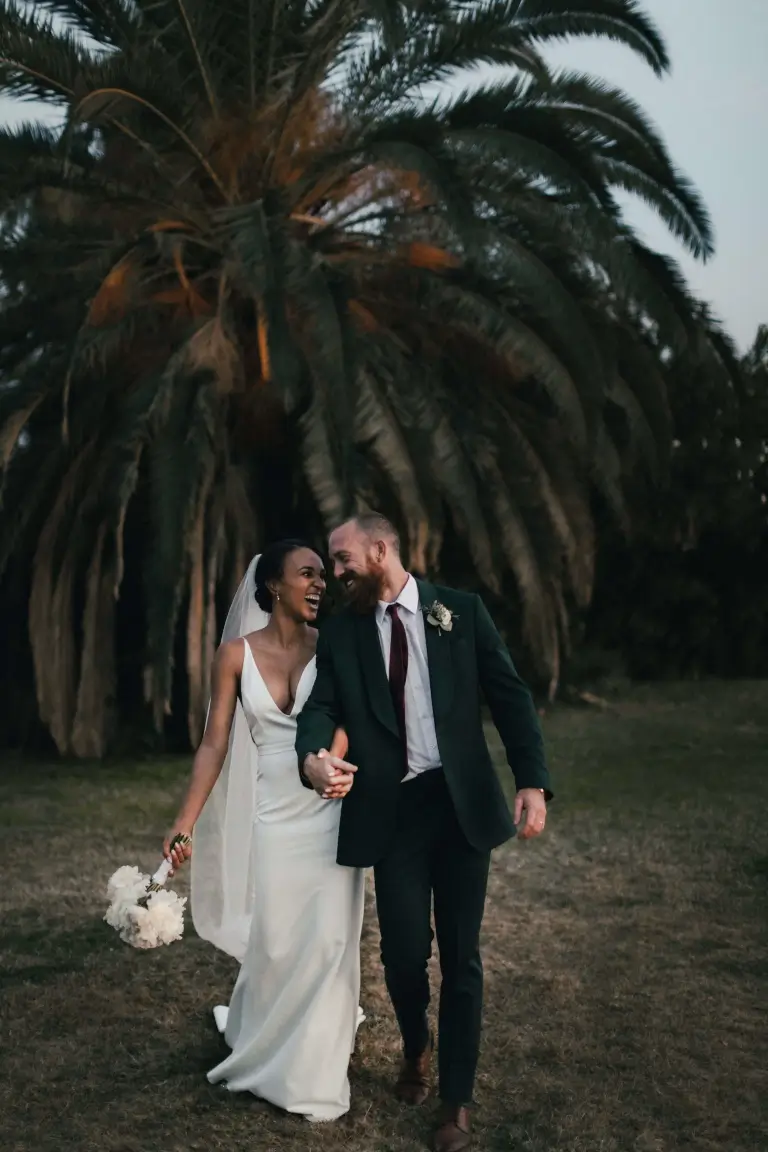
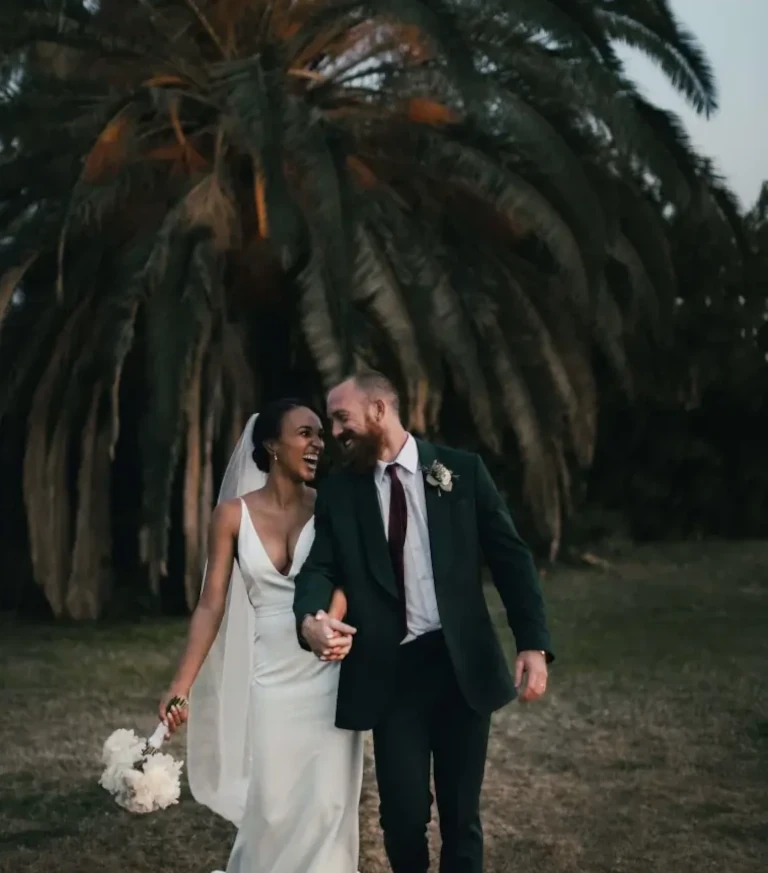
improve website performance (cropping pictures for mobiles), lazy loader

diff --git a/index.html b/index.html
@@ -4,9 +4,9 @@
 	<meta name="viewport" content="width=device-width, initial-scale=1.0">
 	<link rel="stylesheet" href="./assets/bootstrap/bootstrap.css">
 	<link rel="stylesheet" href="./assets/style.css">
-	<link rel="preconnect" href="https://fonts.googleapis.com">
-	<link rel="preconnect" href="https://fonts.gstatic.com" crossorigin>
-	<link href="https://fonts.googleapis.com/css2?family=Inter&family=Spectral:ital,wght@0,400;1,300;1,400;1,800&display=swap" rel="stylesheet">
+	<!-- <link rel="preconnect" href="https://fonts.googleapis.com"> -->
+	<!-- <link rel="preconnect" href="https://fonts.gstatic.com" crossorigin> -->
+	<link href="https://fonts.googleapis.com/css2?family=Inter&family=Spectral:ital,wght@0,400;1,300;1,400;1,800&display=swap" rel="stylesheet" >
 	<meta charset="UTF-8">
 	<script src="./assets/bootstrap/bootstrap.bundle.js" defer></script>
 	<script src="https://code.jquery.com/jquery-3.4.1.min.js" defer integrity="sha256-CSXorXvZcTkaix6Yvo6HppcZGetbYMGWSFlBw8HfCJo=" crossorigin="anonymous"></script>
@@ -41,13 +41,13 @@
 		</div>
 		<div class="carousel-inner">
 			<div class="carousel-item active">
-				<img srcset="./assets/images/slider/small/city_businessman_ryoji_iwata_small.webp 320w , ./assets/images/slider/small/city_businessman_ryoji_iwata_small.webp 768w , ./assets/images/slider/city_businessman_ryoji_iwata.webp 1024w" sizes="100vw" class="d-block w-100" src="./assets/images/slider/city_businessman_ryoji_iwata.webp" alt="businessman marche en ville">
+				<img srcset="./assets/images/slider/small/city_businessman_ryoji_iwata_small.webp 320w, ./assets/images/slider/small/city_businessman_ryoji_iwata_small.webp 768w, ./assets/images/slider/city_businessman_ryoji_iwata.webp 1024w" sizes="100vw" class="d-block w-100" src="./assets/images/slider/city_businessman_ryoji_iwata.webp" alt="homme d'affaires qui traverse un passage piéton">
 			</div>
 			<div class="carousel-item">
-				<img srcset="./assets/images/slider/small/concert_nicholas_green_small.webp 320w , ./assets/images/slider/small/concert_nicholas_green_small.webp 768w , ./assets/images/slider/concert_nicholas_green.webp 1024w" sizes="100vw" src="./assets/images/slider/concert_nicholas_green.webp" class="d-block w-100" alt="foule souriante dans un concert">
+				<img loading="lazy" srcset="./assets/images/slider/small/concert_nicholas_green_small.webp 320w, ./assets/images/slider/small/concert_nicholas_green_small.webp 768w, ./assets/images/slider/concert_nicholas_green.webp 1024w" sizes="100vw" src="./assets/images/slider/concert_nicholas_green.webp" class="d-block w-100" alt="foule souriante dans un concert">
 			</div>
 			<div class="carousel-item">
-				<img srcset="./assets/images/slider/small/wedding_kiss_edward_cisneros_small.webp 320w , ./assets/images/slider/small/wedding_kiss_edward_cisneros_small.webp 768w , ./assets/images/slider/wedding_kiss_edward_cisneros.webp 1024w" sizes="100vw" src="./assets/images/slider/wedding_kiss_edward_cisneros.webp" class="d-block w-100" alt="couple homme-femme mariés s'embrassent">
+				<img loading="lazy" srcset="./assets/images/slider/small/wedding_kiss_edward_cisneros_small.webp 320w, ./assets/images/slider/small/wedding_kiss_edward_cisneros_small.webp 768w, ./assets/images/slider/wedding_kiss_edward_cisneros.webp 1024w" sizes="100vw" src="./assets/images/slider/wedding_kiss_edward_cisneros.webp" class="d-block w-100" alt="couple homme-femme mariés qui s'embrassent">
 			</div>
 		</div>
 		<button class="carousel-control-prev" type="button" data-bs-target="#carouselExampleIndicators" data-bs-slide="prev">
@@ -62,7 +62,7 @@
 </div>
 <div id="about">
 	<div class="picture left">
-		<img srcset="./assets/images/nina_small.webp 320w , ./assets/images/nina_small.webp 768w , ./assets/images/nina.webp 1024w" sizes="100vw" src="./assets/images/nina.webp" alt="Nina Carducci photographe">
+		<img src="./assets/images/nina.webp" alt="Nina Carducci photographe">
 	</div>
 	<div id="about-me">
 		<h3 class="about-me__title">A propos de moi</h3>
@@ -155,7 +155,7 @@
 			</form>
 		</div>
 		<div class="picture right">
-			<img srcset="./assets/images/camera_small.webp 320w , ./assets/images/camera_small.webp 768w , ./assets/images/camera.webp 1024w" sizes="100vw" src="./assets/images/camera.webp" alt="appareil photo Nina Carducci">
+			<img src="./assets/images/camera.webp" alt="appareil photo Nina Carducci">
 		</div>
 	</div>
 </div>
